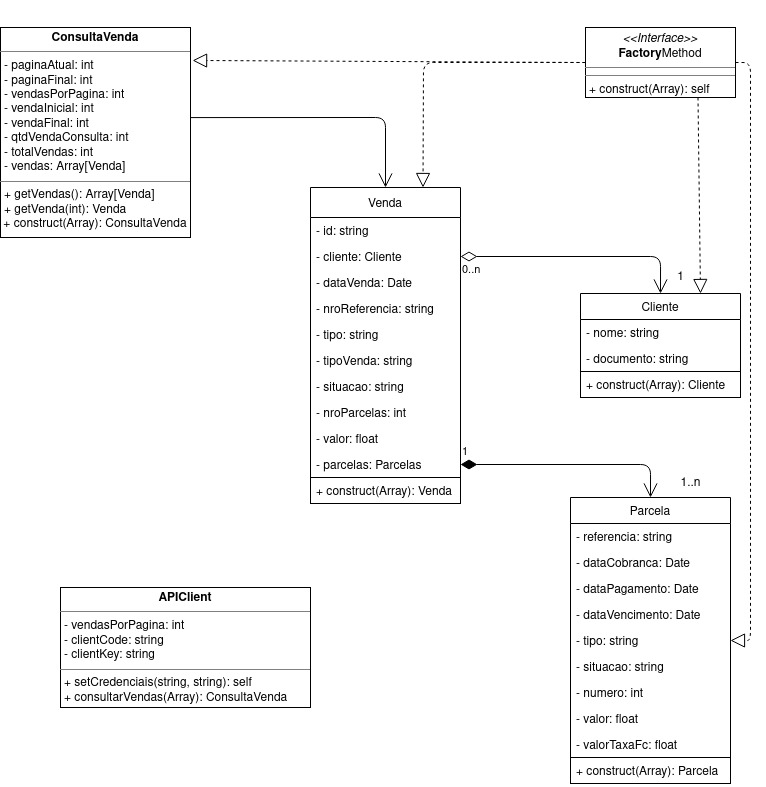
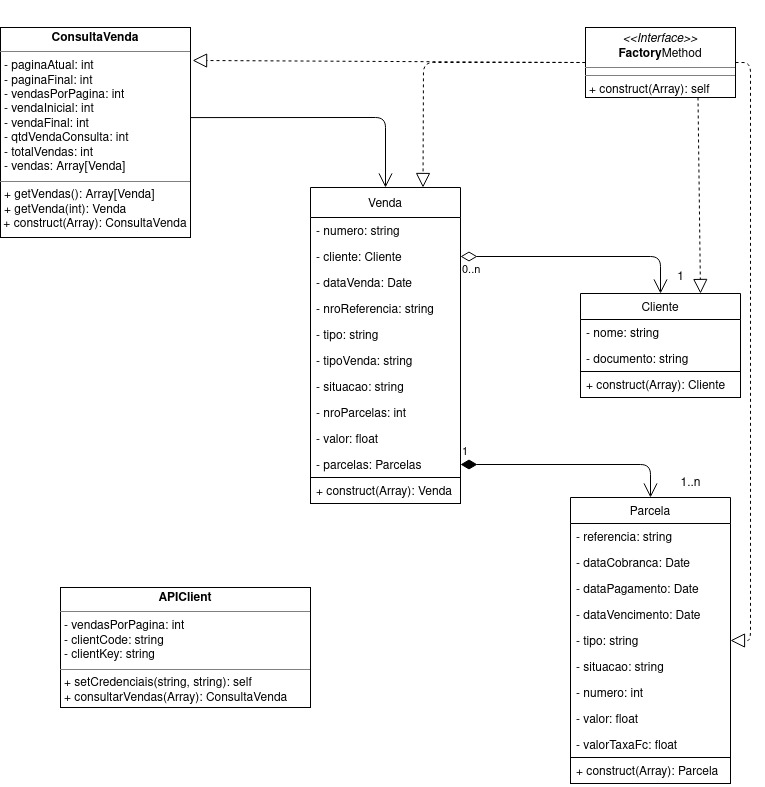
atualizando .gitignore, README e uml

diff --git a/README.md b/README.md
@@ -1,2 +1,2 @@
 # FastpayClient
-Client de consulta à API da Fastpay
+Client de consulta de vendas à API da Fastpay
